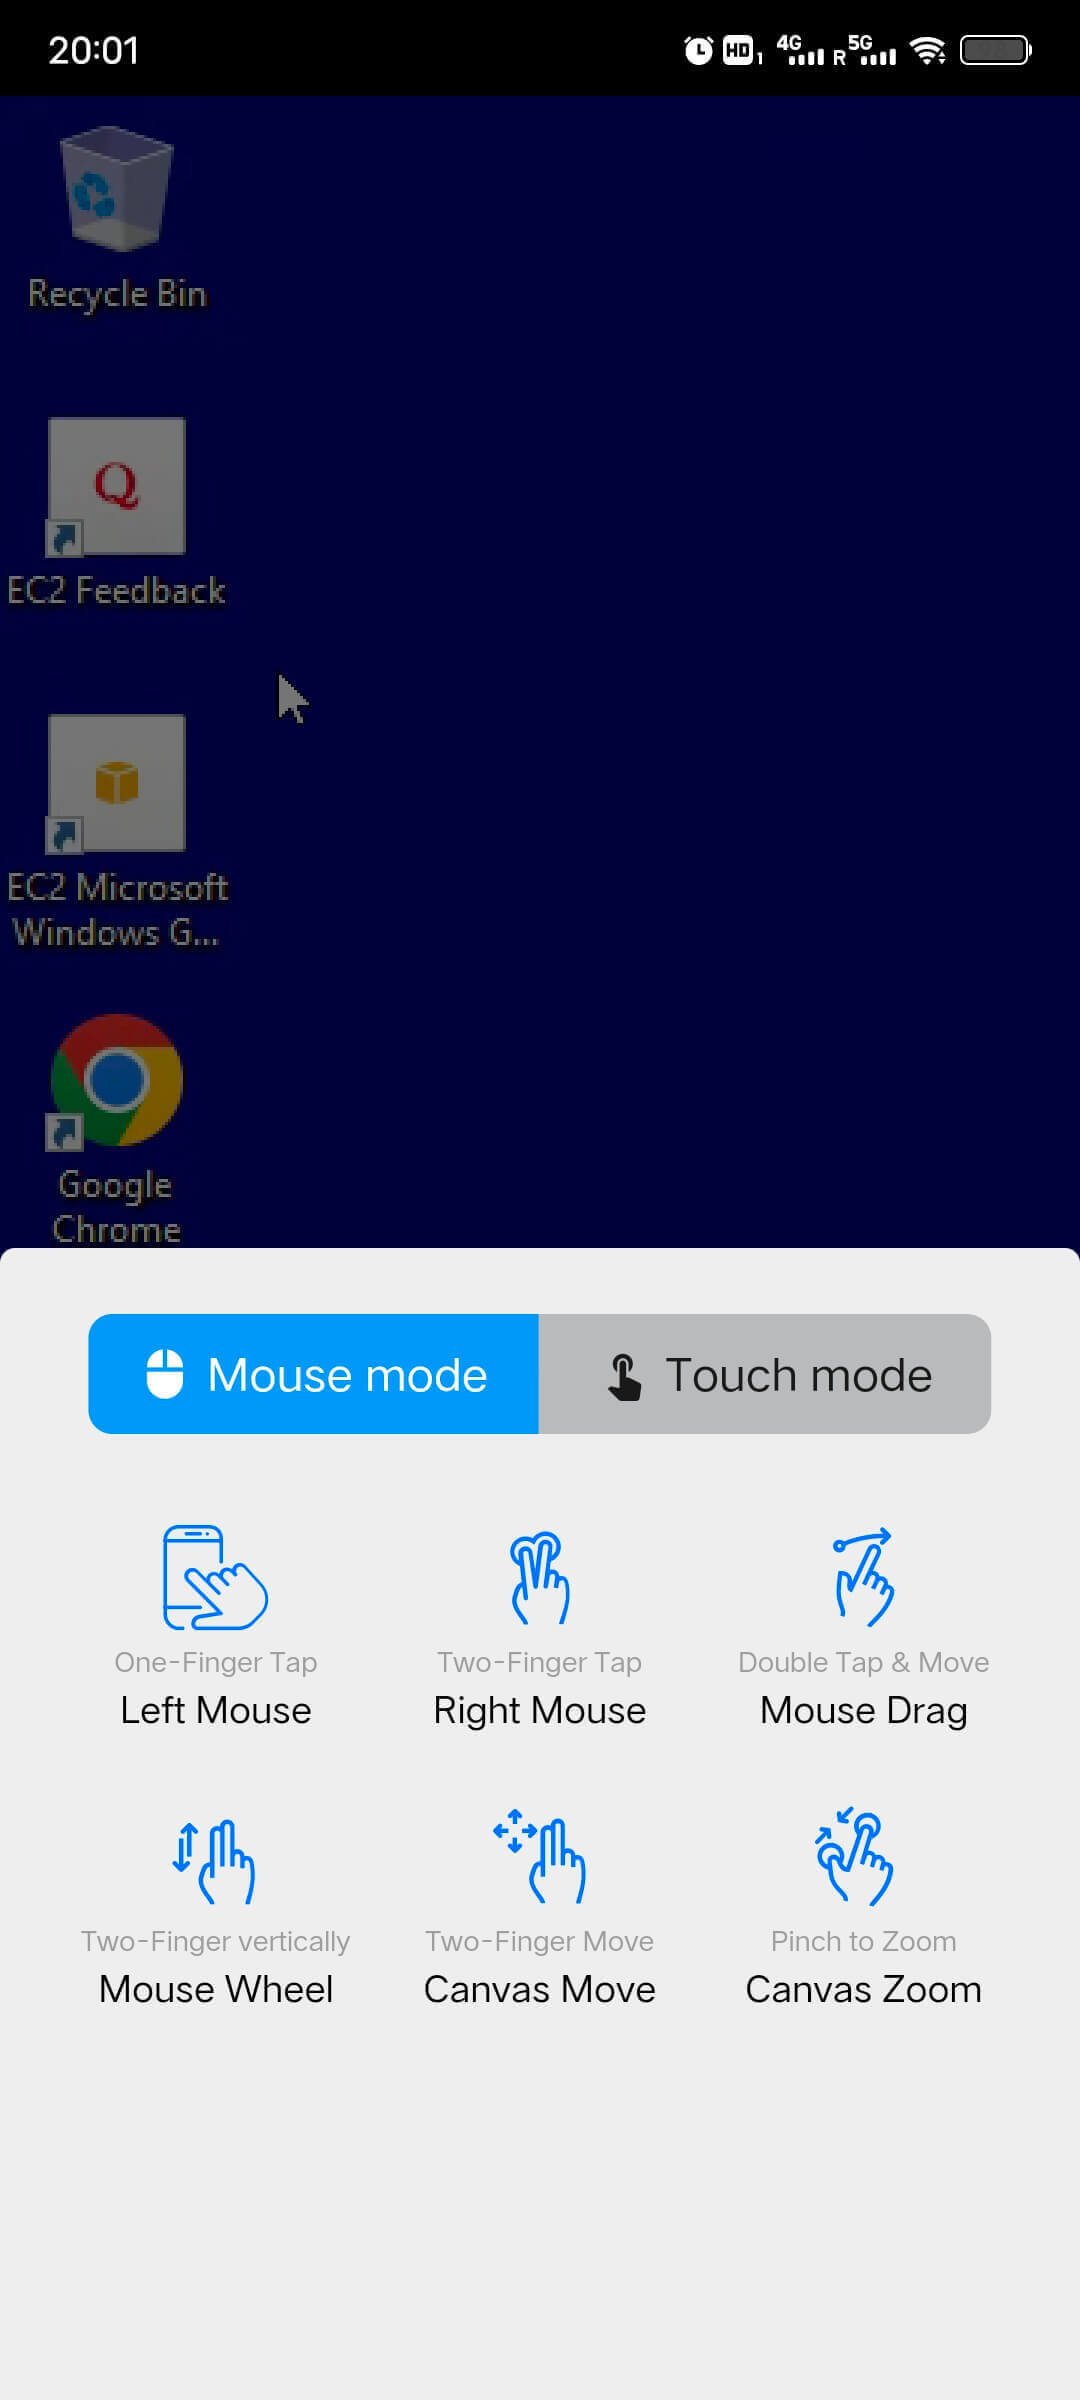
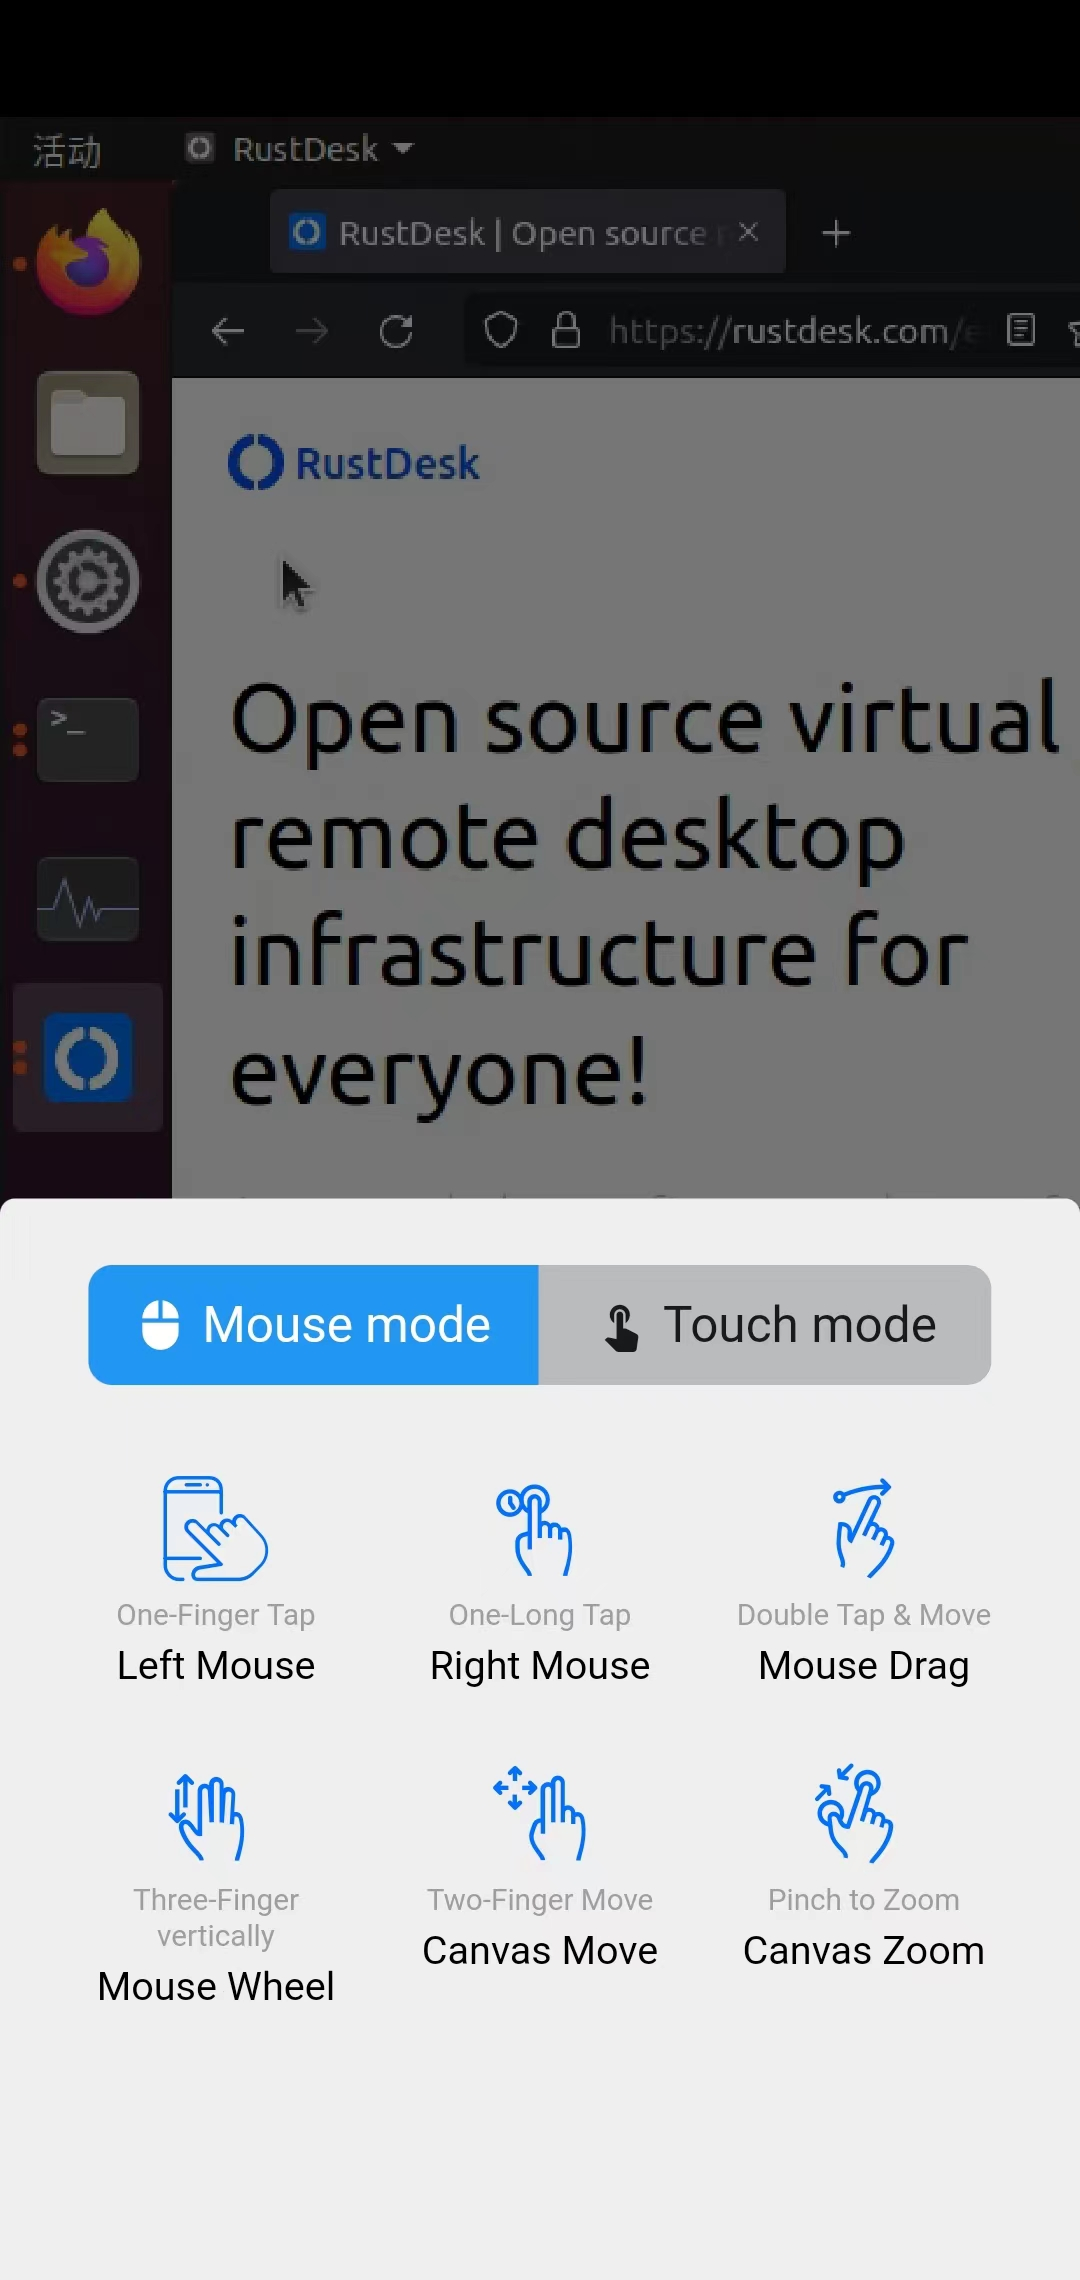
update gesture

diff --git a/content/manual/mobile/_index.en.md b/content/manual/mobile/_index.en.md
@@ -20,6 +20,9 @@ Input control provides `mouse mode`/`touch mode` two modes, which can be switche
 | --------------- | -------------------------------------------------------- |
 | ![](/docs/en/manual/mobile/images/touch_mode_icon_en.png?width=300px) | ![](/docs/en/manual/mobile/images/touch_mode_en.jpg?width=300px) |
 
+{{% notice note %}}
+In `mouse mode`,you can also trigger the remote device's `Right Mouse` with a `Two-Finger Tap`
+{{% /notice %}}
 
 ### File Transfer (Android)
 ------

diff --git a/content/manual/mobile/_index.zh-cn.md b/content/manual/mobile/_index.zh-cn.md
@@ -20,6 +20,9 @@ weight: 1
 | --------------- | -------------------------------------------------------- |
 | ![](/docs/en/manual/mobile/images/touch_mode_icon.png?width=300px) | ![](/docs/en/manual/mobile/images/touch_mode_zh.jpg?width=300px) |
 
+{{% notice note %}}
+在`鼠标模式`中，你也可以通过`双指轻触`触发远程设备的`鼠标右键`
+{{% /notice %}}
 
 ### 管理其他设备的文件，相互传输文件 (安卓)
 ------

diff --git a/content/manual/mobile/_index.zh-tw.md b/content/manual/mobile/_index.zh-tw.md
@@ -20,6 +20,9 @@ weight: 1
 | --------------- | -------------------------------------------------------- |
 | ![](/docs/en/manual/mobile/images/touch_mode_icon.png?width=300px) | ![](/docs/en/manual/mobile/images/touch_mode_zh.jpg?width=300px) |
 
+{{% notice note %}}
+在`鼠標模式`中，你也可以通過`雙指輕觸`觸發遠程設備的`鼠標右鍵`
+{{% /notice %}}
 
 ### 管理其他設備的文件，相互傳輸文件 (安卓)
 ------